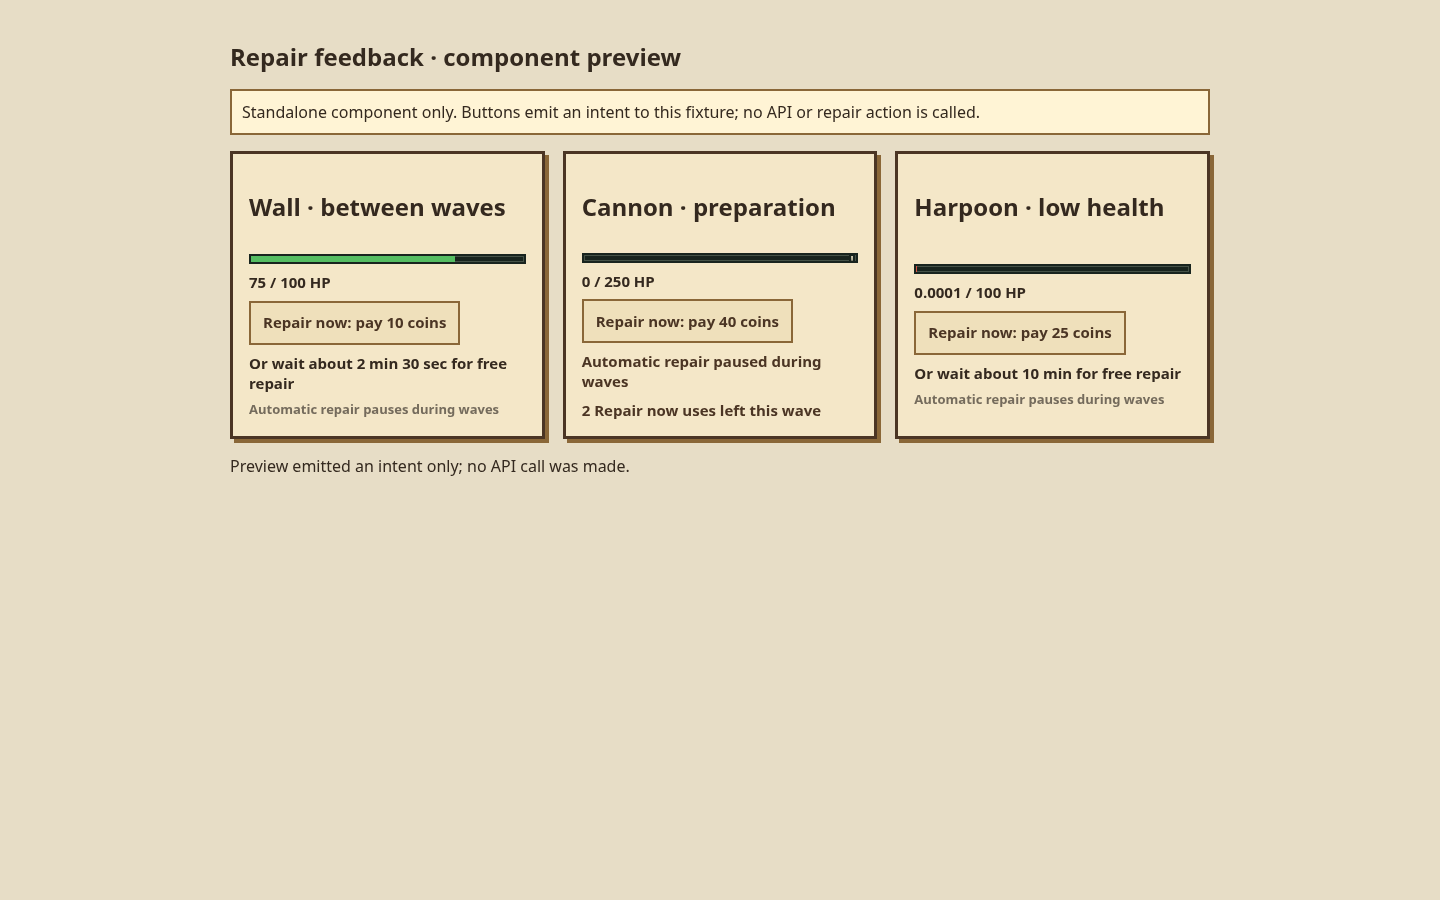
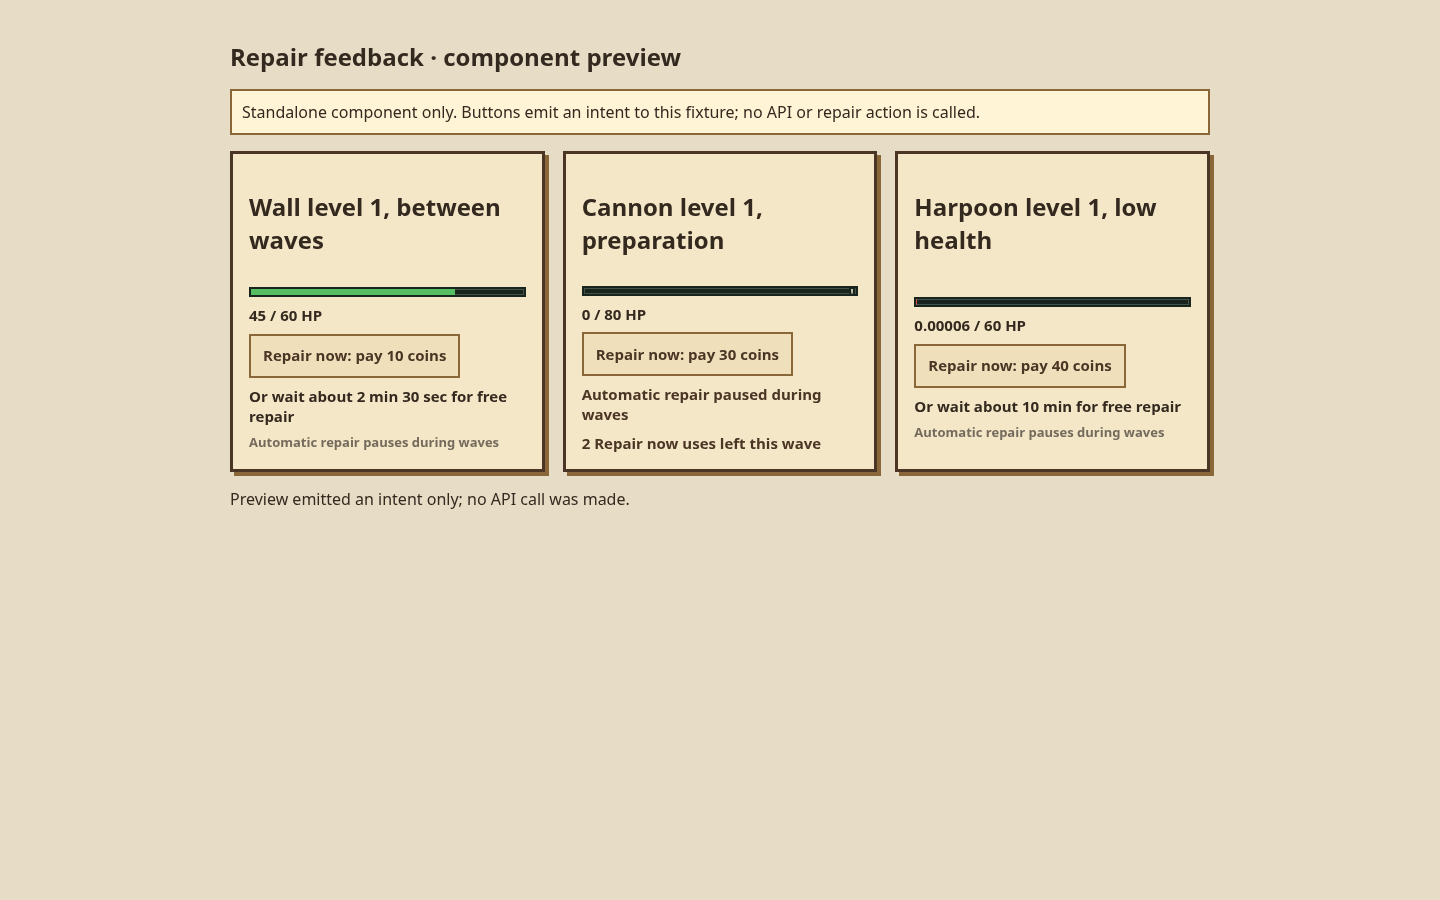
docs: align T59 evidence with catalogue values

Changed region(s): [[0.1562, 0.2178, 0.8438, 0.56], [0.2188, 0.2178, 0.3438, 0.2489], [0.7188, 0.2178, 0.8125, 0.2489]]

diff --git a/docs/evidence/T59-repair-feedback/README.md b/docs/evidence/T59-repair-feedback/README.md
@@ -2,7 +2,7 @@
 
 **Standalone component only; no API or game integration.** These previews render fixture data. The button reports an intent to the preview page; it sends no request and changes no health or coins.
 
-Captured from source commit `e799c4d1` with:
+Captured from source commit `10d409c1` with:
 
 ```sh
 cd frontend && npm run test:recovery:component
@@ -15,6 +15,6 @@ The command starts the local Vite server and opens the standalone fixture in hea
 | 1440 × 900 desktop | [Desktop component preview](../../../frontend/captures/t59-recovery-component-desktop.png) |
 | 390 × 844 phone | [Phone component preview](../../../frontend/captures/t59-recovery-component-phone.png) |
 
-The fixture shows a damaged wall between waves, a destroyed cannon during preparation with two uses remaining, and a harpoon with one normalized HP unit. These screenshots demonstrate presentation only.
+The fixture uses current level-one values from `BUILDINGS` in `frontend/src/island/td-rules.js` and `towerMaxHp` in `frontend/src/pirates/tower-health.js`. It shows a wall at 45/60 HP for 10 coins with a 150-second base-rate ETA; a destroyed cannon at 0/80 HP for 30 coins during preparation with two uses remaining; and a harpoon at 0.00006/60 HP for 40 coins with a 600-second base-rate ETA. The preview calculates those ETAs from the D059 base rate. These screenshots demonstrate presentation only.
 
 Integrated evidence remains pending T55–T57. It should show between-wave pay and wait choices; preparation and combat with paused repair and shared quota; zero, partial, tiny-positive and full HP; and phone controls at 390 px and 375 px. Multiplayer evidence must come from the actual integrated clients.
